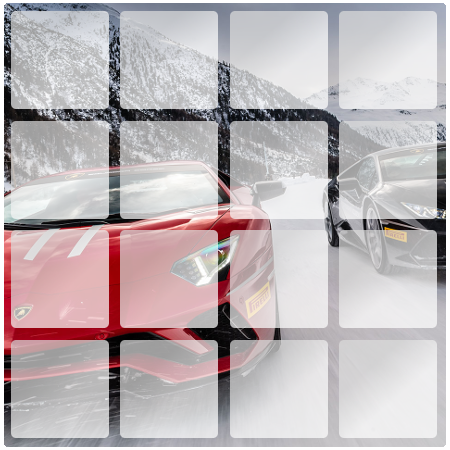
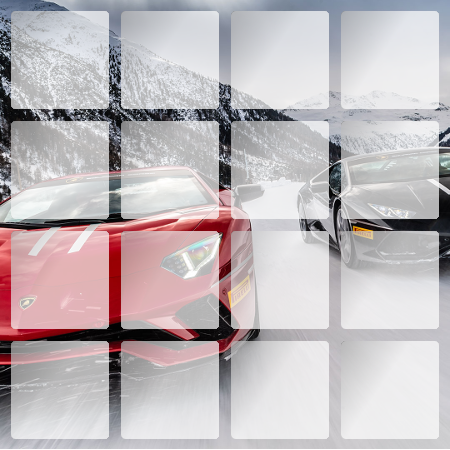
cards added to the board basic keypress handling, moving cards

Changed region(s): [[0.0, 0.0, 1.0, 1.0]]

diff --git a/src/Game/keyboardstate.js b/src/Game/keyboardstate.js
@@ -1,0 +1,107 @@
+"use strict";
+import EventEmitter from 'events';
+
+class KeyboardState	extends EventEmitter {
+	constructor() {
+        super();
+		this.keyCodes	= {};
+		this.lastPressed	= {};
+		this.modifiers	= {};
+		
+		var self	= this;
+
+		this._onKeyDown	= (event) => { 
+            self._onKeyChange(event, true); 
+            if (this.isPrevent(event)) 
+                event.preventDefault()
+        };
+		this._onKeyUp	= (event) => { 
+            self._onKeyChange(event, false);
+            if (this.isPrevent(event))
+                event.preventDefault()
+        };
+
+		document.addEventListener("keydown", this._onKeyDown, false);
+		document.addEventListener("keyup", this._onKeyUp, false);
+
+		this.MODIFIERS_	= ['shift', 'ctrl', 'alt', 'meta'];
+		this.ALIAS_	= {
+			'left'		: 37,
+			'up'		: 38,
+			'right'		: 39,
+			'down'		: 40,
+			'space'		: 32,
+			'pageup'	: 33,
+			'pagedown'	: 34,
+			'tab'		: 9,
+			'enter'		: 13
+		};
+	}
+
+    isPrevent(event) {
+        if ((event.keycode >= 37 && event.keyCode <= 40) || (event.keycode >= 48 && event.keyCode <= 57) || event.keyCode == 67) {
+            return true;
+        } else {
+            return false;
+        }
+    }
+
+    getKeyAlias(keyCode) {
+        for (var alias in this.ALIAS_) {
+            if (this.ALIAS_[alias] == keyCode) {
+                return alias;
+            }
+        }
+        return keyCode;
+    }
+
+    getKeyCode(keyAlias) {
+        if(Object.keys(this.ALIAS_).indexOf(keyCode) != -1 ) {
+            return this.ALIAS_[key];
+        } else {
+            return keyCode.toUpperCase().charCodeAt(0);
+        }
+    }
+
+	destroy() {
+		document.removeEventListener("keydown", this._onKeyDown, false);
+		document.removeEventListener("keyup", this._onKeyUp, false);
+	}
+
+	_onKeyChange(event, pressed) {
+        var keyCode		= event.keyCode;
+		
+        if (!pressed && this.lastPressed == keyCode) {
+            this.emit('keyWasPressed', this.getKeyAlias(keyCode));
+        }
+
+        if (!this.keyCodes[keyCode] && pressed) {
+            this.lastPressed = keyCode;
+        }
+
+		this.keyCodes[keyCode]	= pressed;
+
+		this.modifiers['shift']= event.shiftKey;
+		this.modifiers['ctrl']	= event.ctrlKey;
+		this.modifiers['alt']	= event.altKey;
+		this.modifiers['meta']	= event.metaKey;
+	}
+
+	pressed(keyDesc) {
+		var keys	= keyDesc.split("+");
+		for(var i = 0; i < keys.length; ++i){
+			var key		= keys[i];
+			var pressed;
+			if( this.MODIFIERS_.indexOf(key) !== -1 ){
+				pressed	= this.modifiers[key];
+			} else {
+				pressed	= this.keyCodes[this.getKeyCode(key)];
+			}
+			if(!pressed)
+                return false;
+		};
+		return true;
+	}
+}
+
+export default KeyboardState;

diff --git a/src/Game/card.js b/src/Game/card.js
@@ -1,8 +1,92 @@
 "use strict";
+import Card2Image from '../Assets/2.png';
+import Card4Image from '../Assets/4.png';
+import Card8Image from '../Assets/8.png';
+import Card16Image from '../Assets/16.png';
+import Card32Image from '../Assets/32.png';
+import Card64Image from '../Assets/64.png';
+import Card128Image from '../Assets/128.png';
+import Card256Image from '../Assets/256.png';
+import Card512Image from '../Assets/512.png';
+import Card1024Image from '../Assets/1024.png';
+import Card2048Image from '../Assets/2048.png';
+
+import Sprite from './Renderer/sprite.js';
+
+function getCardImage(value) {
+    switch (value) {
+        case 2: return Card2Image;
+        case 4: return Card4Image;
+        case 8: return Card8Image;
+        case 16: return Card16Image;
+        case 32: return Card32Image;
+        case 64: return Card64Image;
+        case 128: return Card128Image;
+        case 256: return Card256Image;
+        case 512: return Card512Image;
+        case 1024: return Card1024Image;
+        case 2048: return Card2048Image;
+        default:
+            console.error("Invalid card value");
+    }
+    return "";
+}
 
 class Card {
-    constructor(renderer) {
-        this.renderer = renderer;
+    constructor(value, pivotX, pivotY, maxI, maxJ) {
+        this.value = value;
+        this.cardSprite = new Sprite(getCardImage(this.value));
+        this.cardSprite.width = 100;
+        this.cardSprite.height = 100;
+        this.pivotX = pivotX;
+        this.pivotY = pivotY;
+        this.maxI = maxI;
+        this.maxJ = maxJ;
+        this.setToGrid(0,0);
+    }
+
+    setToGrid(i, j) {
+        if (i > this.maxI)
+            return;
+        if (j > this.maxJ)
+            return;
+
+        this.i = i;
+        this.j = j;
+        this.cardSprite.posX = this.pivotX + (i+1)*10 + i*100;
+        this.cardSprite.posY = this.pivotY + (j+1)*10 + j*100; 
+    }
+
+    get sprite() {
+        return this.cardSprite;
+    }
+
+    set sprite(sprite) {
+        console.log("Invalid acces to sprite");
+    }
+
+    moveLeft() {
+        if (this.i > 0) {
+            this.setToGrid(--this.i, this.j);
+        }
+    }
+
+    moveRight() {
+        if (this.i < this.maxI) {
+            this.setToGrid(++this.i, this.j);
+        }
+    }
+
+    moveUp() {
+        if (this.j > 0) {
+            this.setToGrid(this.i, --this.j);
+        }
+    }
+
+    moveDown() {
+        if (this.j < this.maxJ) {
+            this.setToGrid(this.i, ++this.j);
+        }
     }
 }
 

diff --git a/src/Game/gamecore.js b/src/Game/gamecore.js
@@ -1,8 +1,11 @@
 "use strict";
 
 import EventEmitter from 'events';
+import KeyboardState from './keyboardstate.js';
 import Renderer from './Renderer/renderer.js';
 import Grid from './grid.js';
+import Card from './card.js';
+import Board from './board.js';
 
 class GameCore extends EventEmitter {
     constructor() {
@@ -11,8 +14,25 @@ class GameCore extends EventEmitter {
     }
 
     init(canvas) {
+        this.keyboard = new KeyboardState();
+        this.keyboard.on('keyWasPressed', keyCode => this.keyWasPressed(keyCode));
         this.renderer = new Renderer(canvas);
-        this.grid = new Grid(this.renderer);
+        this.grid = new Grid(this.renderer.getCanvasWidth() / 2, this.renderer.getCanvasHeight() / 2);
+        this.renderer.addToScene(this.grid.sprite);
+        this.board = new Board(this.grid.pivotX, this.grid.pivotY, 3, 3);
+        this.board.on('newCardAdded', (sprite) => { this.renderer.addToScene(sprite); } );
+
+        this.board.addNewCard(2,0,0);
+        this.board.addNewCard(4,1,0);
+        this.board.addNewCard(8,2,0);
+        this.board.addNewCard(16,3,0);
+        this.board.addNewCard(32,0,1);
+        this.board.addNewCard(64,1,1);
+        this.board.addNewCard(128,2,1);
+        this.board.addNewCard(256,3,1);
+        this.board.addNewCard(512,0,2);
+        this.board.addNewCard(1024,1,2);
+        this.board.addNewCard(2048,2,2);
     }
 
     start() {
@@ -26,13 +46,26 @@ class GameCore extends EventEmitter {
     }
 
     preloadFinished() {
-        console.log('Finisheeeed');
         this.emit("preloadFinished");
         window.requestAnimationFrame(this.update.bind(this), this.renderer.canvas);
     }
 
+    keyWasPressed(key) {
+        if (key === "left") {
+            this.board.left();
+        } else if (key === "right") {
+            this.board.right();
+        } else if (key === "up") {
+            this.board.up();
+        } else if (key === "down") {
+            this.board.down();
+        }
+    }
+
     update() {
         this.renderer.render();
+
+        window.requestAnimationFrame(this.update.bind(this), this.renderer.canvas);
     }
 }
 

diff --git a/src/Game/grid.js b/src/Game/grid.js
@@ -1,20 +1,36 @@
 "use strict";
 
 import GridImage from '../Assets/grid.png';
+import Sprite from './Renderer/sprite.js';
 
 class Grid {
-    constructor(renderer) {
-        this.renderer = renderer;
-        this.grid = this.renderer.createSprite(GridImage);
-        this.renderer.addToScene(this.grid);
+    constructor(centerX, centerY) {
+        this.grid = new Sprite(GridImage);
         this.grid.width = 450;
         this.grid.height = 450;
-        this.setToCenter();
+        this.grid.posX = centerX - this.grid.width/2;
+        this.grid.posY = centerY -  this.grid.height/2;
     }
     
-    setToCenter() {
-        this.grid.posX = this.renderer.getCanvasWidth()/2 - 225;
-        this.grid.posY = this.renderer.getCanvasHeight()/2 - 225;
+    setCenter(centerX, centerY) {
+        this.grid.posX = centerX - this.grid.width/2;
+        this.grid.posY = centerY - this.grid.height/2;
+    }
+
+    get sprite() {
+        return this.grid;
+    }
+
+    set sprite(sprite) {
+        console.log("Invalid acces to sprite");
+    }
+
+    get pivotX() {
+        return this.grid.posX;
+    }
+
+    get pivotY() {
+        return this.grid.posY;
     }
 }
 

diff --git a/src/Game/board.js b/src/Game/board.js
@@ -1,0 +1,51 @@
+"use strict";
+import Card from './card.js';
+import EventEmitter from 'events';
+
+class Board extends EventEmitter{
+    constructor(pivotX, pivotY, maxI, maxJ) {
+        super();
+        this.cards = [];
+        this.pivotX = pivotX;
+        this.pivotY = pivotY;
+        this.maxI = maxI;
+        this.maxJ = maxJ;
+    }
+
+    addNewCard(value, i,j) {
+        var card = new Card(value, this.pivotX, this.pivotY, this.maxI, this.maxJ);
+        card.setToGrid(i,j);
+        this.cards.push(card);
+        this.emit('newCardAdded', card.sprite);
+        return card;
+    }
+
+    addNewCardRandom() {
+
+    }
+    left() {
+        this.cards.forEach(card => {
+            card.moveLeft();
+        })
+    }
+
+    right() {
+        this.cards.forEach(card => {
+            card.moveRight();
+        })
+    }
+
+    up() {
+        this.cards.forEach(card => {
+            card.moveUp();
+        })
+    }
+
+    down() {
+        this.cards.forEach(card => {
+            card.moveDown();
+        })
+    }
+}
+
+export default Board;

diff --git a/src/Game/Renderer/sprite.js b/src/Game/Renderer/sprite.js
@@ -1,8 +1,9 @@
 "use strict";
 
 class Sprite {
-    constructor(image) {
-        this.image = image;
+    constructor(imagePath) {
+        this.image = new Image();
+        this.image.src = imagePath;
         this._posX = 0;
         this._posY = 0;
         this._width = 0;
